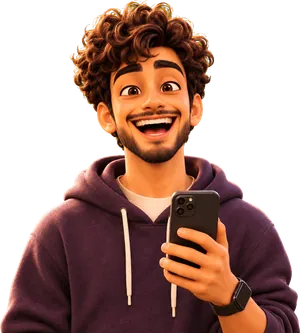
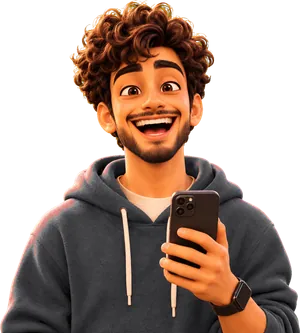
Homepage: grey Kabir; draft Terms and Privacy updates
Terms: no live sessions, new Founding Seats and Reservations section. Privacy: what the Reset Audit and reservations store, what stays on the device, your choices, service providers. Draft for the owner's approval.

diff --git a/legal.html b/legal.html
@@ -36,15 +36,15 @@
     <h1 class="legal-h" style="font-size:clamp(34px,5vw,52px)">Terms, refunds and privacy</h1>
     <p>The same rules as before, on their own page.</p>
     <section id="terms">
-      <!-- Copied word for word from the live site's Terms modal (index.html). -->
+      <!-- DRAFT 2026-11-13 for the owner's approval: based on the live Terms; changes in 2, 9 and the date. -->
       <h2 class="legal-h">TERMS OF SERVICE</h2>
-    <p>Last updated: June 2026</p>
+    <p>Last updated: November 2026</p>
 
     <h3>1. Acceptance of Terms</h3>
     <p>By accessing or purchasing any product or service from Reset Traders, you agree to be bound by these Terms of Service. If you do not agree, please do not use our services.</p>
 
     <h3>2. Educational Purpose Only</h3>
-    <p>All content provided by Reset Traders — including course videos, live sessions, notes, and community content — is strictly for <strong>educational purposes only</strong>. Nothing on this platform constitutes financial advice, investment advice, or a recommendation to buy or sell any financial instrument.</p>
+    <p>All content provided by Reset Traders — including course videos, the Reset Audit and its results, the bonus strategy material, notes, journal tools and community content — is strictly for <strong>educational purposes only</strong>. Nothing on this platform constitutes financial advice, investment advice, or a recommendation to buy or sell any financial instrument.</p>
 
     <h3>3. No Refund Policy</h3>
     <p>Due to the instant digital nature of our course content, <strong>all sales are final</strong>. Once course access is granted, no refunds will be issued. We encourage you to DM us on Instagram or Telegram with any questions before purchasing.</p>
@@ -61,7 +61,10 @@
     <h3>7. Changes to Terms</h3>
     <p>Reset Traders reserves the right to update these terms at any time. Continued use of the platform after changes constitutes acceptance of the updated terms.</p>
 
-    <h3>8. Contact</h3>
+    <h3>8. Founding Seats and Reservations</h3>
+    <p>Reserving a founding seat for Your Personal Reset, or reserving Journal Pro, is free and is not a purchase. It holds your place on the list and lets us email you first when checkout opens. You are not obliged to buy. Prices, founding offers and availability may change before checkout opens, and the founding price applies to the first 100 buyers only.</p>
+
+    <h3>9. Contact</h3>
     <p>For any queries regarding these terms, contact us at <a href="mailto:resettradersofficial@gmail.com">resettradersofficial@gmail.com</a>.</p>
     </section>
     <section id="refunds">
@@ -71,21 +74,23 @@
       <p style="margin-top:12px">Please DM us first if you have any questions before purchasing. We're happy to help you decide.</p>
     </section>
     <section id="privacy">
-      <!-- Copied word for word from the live site's Privacy modal (index.html). -->
+      <!-- DRAFT 2026-11-13 for the owner's approval: based on the live Privacy Policy, updated for the Reset Audit and reservations. -->
       <h2 class="legal-h">PRIVACY POLICY</h2>
-    <p>Last updated: June 2026</p>
+    <p>Last updated: November 2026</p>
 
     <h3>1. Information We Collect</h3>
     <p>When you enroll with Reset Traders, we collect your name, email address, phone number, and payment confirmation details. Student login is handled by Firebase Authentication. We do not store card, UPI, or banking credentials on this website.</p>
+    <p><strong>The Reset Audit.</strong> Your answers to the audit questions stay on your device. When you unlock your result, we collect your email address and your result: your hijack type, the share of each hijack, your body's warning sign, your nervous system default, your challenge stage, your stop rule, and where you came from (for example, an Instagram link or our homepage).</p>
+    <p><strong>Reservations.</strong> If you reserve a founding seat or Journal Pro, we store your email address, what you reserved, your hijack type and your price region (India or international).</p>
 
     <h3>2. How We Use Your Information</h3>
-    <p>Your information is used solely to: provide access to your purchased course, communicate course updates and session schedules, and deliver support. We do not sell, rent, or share your personal information with third parties.</p>
+    <p>Your information is used solely to: provide access to your purchased course, email you your audit result and 7-day reset, tell you when founding seats or Journal Pro open, communicate course updates, and deliver support. We do not sell or rent your personal information. We share it only with the service providers in section 9, and only so they can run these services for us.</p>
 
     <h3>3. Payment Data</h3>
     <p>Payment processing is handled through secure third-party gateways (UPI, Razorpay, or bank transfer). Reset Traders does not store your card or banking details on our servers.</p>
 
     <h3>4. Cookies & Local Storage</h3>
-    <p>Our student portal uses browser local storage to maintain your session and save your course progress. This data remains on your device and is not transmitted to external servers.</p>
+    <p>Our student portal uses browser local storage to maintain your session and save your course progress. The Reset Audit also keeps a few things in your browser so you aren't asked twice: your email address after you unlock, your price region (₹ or $), whether you've watched the film and whether you've reserved. This data remains on your device; you can remove it by clearing this site's data in your browser.</p>
 
     <h3>5. Communications</h3>
     <p>By enrolling, you agree to receive course-related communications via email or our private community channel. You may opt out of marketing communications at any time by contacting us.</p>
@@ -96,7 +101,13 @@
     <h3>7. Children's Privacy</h3>
     <p>Our services are intended for individuals 18 years of age or older. We do not knowingly collect data from minors.</p>
 
-    <h3>8. Contact</h3>
+    <h3>8. Your Choices</h3>
+    <p>You can ask us to show you, correct or delete the audit result, reservation or account details we hold about you, and you can unsubscribe from our emails at any time. Email us at the address below and we will act on it promptly.</p>
+
+    <h3>9. Service Providers</h3>
+    <p>To run the site we use Google Firebase (database and student login), Cloudflare (sending your audit result), Google (email delivery and our send log), Razorpay (payments) and GitHub Pages (hosting). Each one processes data only to provide its service to us.</p>
+
+    <h3>10. Contact</h3>
     <p>For privacy-related concerns, contact us at <a href="mailto:resettradersofficial@gmail.com">resettradersofficial@gmail.com</a>.</p>
     </section>
   </div>
